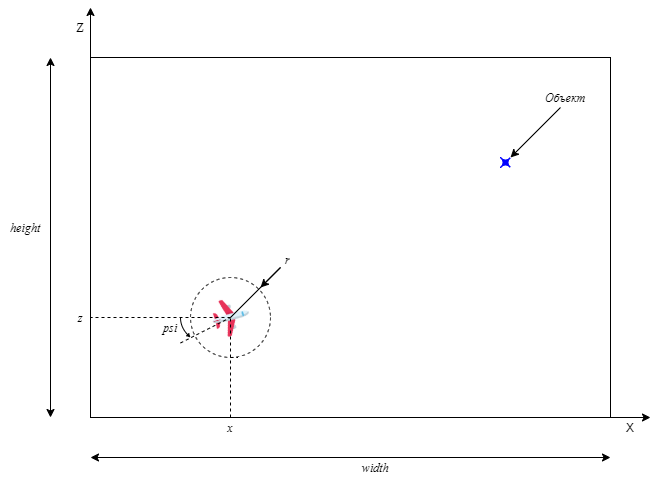
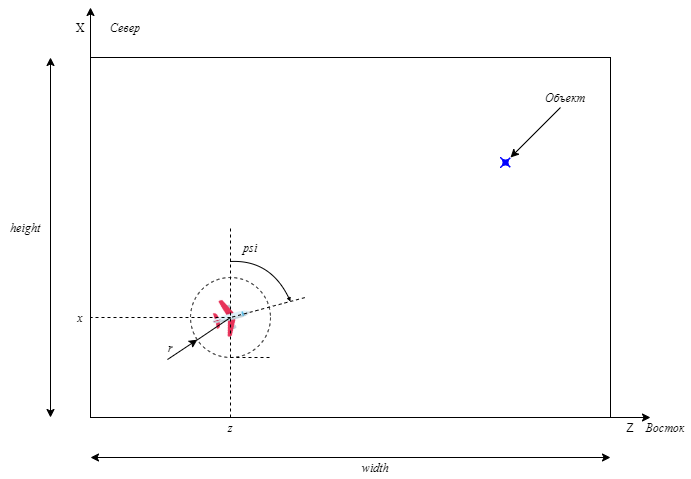
X - Z swap

diff --git a/FieldSimulator.py b/FieldSimulator.py
@@ -23,22 +23,22 @@ class FieldSimulator:
     def scan(self):
         self.scans += 1
         drone_pos = self.drone_position()
-        x, z = drone_pos["X"], drone_pos["Z"]
+        z, x = drone_pos["Z"], drone_pos["X"]
 
-        for i in range(int(x - self.visibility_radius), int(x + self.visibility_radius), self.resolution):
-            for j in range(int(z - self.visibility_radius), int(z + self.visibility_radius), self.resolution):
+        for j in range(int(z - self.visibility_radius), int(z + self.visibility_radius), self.resolution):
+            for i in range(int(x - self.visibility_radius), int(x + self.visibility_radius), self.resolution):
                 if self._distance(x, z, i, j) <= self.visibility_radius:
-                    if 0 < i < self.field_size[0] and 0 < j < self.field_size[1]:
-                        self.scanned_pixels.add((i, j))
+                    if 0 < j < self.field_size[0] and 0 < i < self.field_size[1]:
+                        self.scanned_pixels.add((j, i))
 
-        if self._distance(x, z, self.object_position[0], self.object_position[1]) <= self.visibility_radius:
+        if self._distance(z, x, self.object_position[0], self.object_position[1]) <= self.visibility_radius:
             self.object_found = True
             return True
 
         return False
 
-    def _distance(self, x1, y1, x2, y2):
-        return sqrt((x2 - x1)**2 + (y2 - y1)**2)
+    def _distance(self, z1, x1, z2, x2):
+        return sqrt((z2 - z1)**2 + (x2 - x1)**2)
 
     def evaluate(self):
         total_pixels = (self.field_size[0] // self.resolution) * (self.field_size[1] // self.resolution)
@@ -61,26 +61,26 @@ class FieldSimulator:
     def plot_field(self):
         field = np.zeros((self.field_size[1], self.field_size[0]))
 
-        for x, z in self.scanned_pixels:
-            if 0 <= x < self.field_size[0] and 0 <= z < self.field_size[1]:
-                field[z][x] = 1
+        for z, x in self.scanned_pixels:
+            if 0 <= z < self.field_size[0] and 0 <= x < self.field_size[1]:
+                field[x][z] = 1
 
         plt.imshow(field, cmap='gray', origin='lower')
         plt.colorbar(label='Сканированная часть')
         plt.title('Просканированная часть поля')
-        plt.xlabel('Координата X')
-        plt.ylabel('Координата Z')
-        plt.scatter(*self.object_position, c='red', marker='x', label="Объект")
+        plt.xlabel('Координата Z')
+        plt.ylabel('Координата X')
+        plt.scatter(self.object_position[0],self.object_position[1], c='red', marker='x', label="Объект")
         plt.legend()
         plt.show()
 
 if __name__ == "__main__":
     field_size = (500, 500)
     scan_radius = 30
-    field_sim = FieldSimulator(field_size, (400, 15), scan_radius)
+    field_sim = FieldSimulator(field_size, (415,300), scan_radius)
     solver_ex = solver(field_size)
     step = 0
-    step_limit = 1000
+    step_limit = 2000
     object_found = False
     while not(object_found) and step < step_limit:
         object_found = field_sim.control_drone(*solver_ex.solve(field_sim.drone_position()))

diff --git a/test.py b/test.py
@@ -8,9 +8,9 @@ def get_current_function_name():
 
 class TestFieldSimulatorNewFormat(unittest.TestCase):
 
-    def simulate(self, field_size, object_position, scan_radius=30, step_limit=10000):
+    def simulate(self, field_size, object_position, scan_radius=30, step_limit=2000):
         field_sim = FieldSimulator(field_size, object_position, scan_radius)
-        solver_ex = solver(field_size)  # Placeholder
+        solver_ex = solver(field_size)
         step = 0
         object_found = False
         while not object_found and step < step_limit:
@@ -26,10 +26,10 @@ class TestFieldSimulatorNewFormat(unittest.TestCase):
         self.simulate((500, 500), (400, 400))
 
     def test_large_field_object_center(self):
-        self.simulate((500, 500), (250, 270))
+        self.simulate((500, 500), (270, 250))
 
     def test_rectangle_field_object_edge(self):
-        self.simulate((300, 833), (93, 692))
+        self.simulate((300, 833), (153, 694))
 
 if __name__ == "__main__":
     unittest.main()
